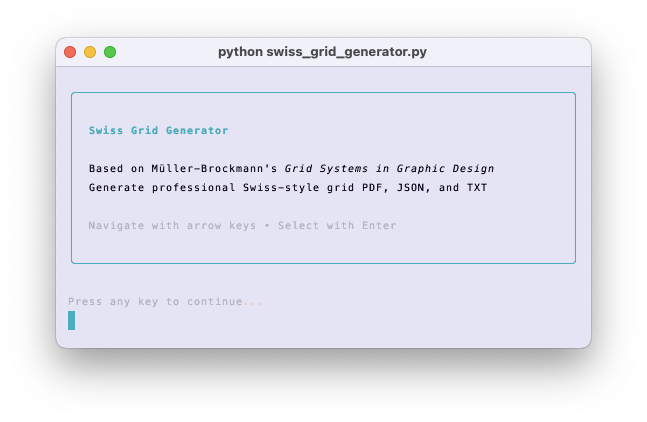
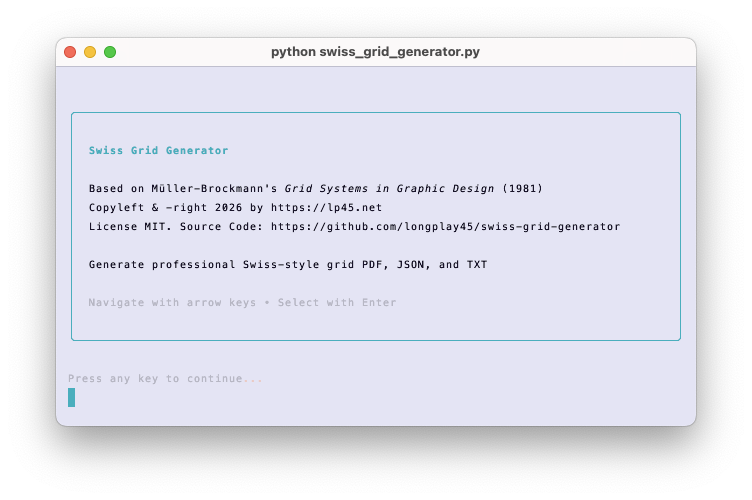
Add License and Source Code Info to the Cli and Webapp. Updated swiss-grid-generator-cli-screenshot.png.

diff --git a/swiss-grid-webapp/app/page.tsx b/swiss-grid-webapp/app/page.tsx
@@ -183,7 +183,7 @@ export default function Home() {
         <div className="space-y-2">
           <h1 className="text-2xl font-bold tracking-tight">Swiss Grid Generator</h1>
           <p className="text-sm text-gray-600">
-            Based on Müller-Brockmann's <em>Grid Systems in Graphic Design</em> (1981). Copyleft & -right 2026 by <a href="https://lp45.net">lp45.net</a>
+            Based on Müller-Brockmann's <em>Grid Systems in Graphic Design</em> (1981). Copyleft & -right 2026 by <a href="https://lp45.net">lp45.net</a>. License MIT. <a href="https://github.com/longplay45/swiss-grid-generator">Source Code</a>
           </p>
         </div>
 

diff --git a/cli/swiss_grid_generator.py b/cli/swiss_grid_generator.py
@@ -1157,7 +1157,9 @@ def interactive_mode() -> Tuple[str, int, str, int, int]:
     console.print(
         Panel(
             "[bold cyan]Swiss Grid Generator[/bold cyan]\n\n"
-            "Based on Müller-Brockmann's [italic]Grid Systems in Graphic Design[/italic]\n"
+            "Based on Müller-Brockmann's [italic]Grid Systems in Graphic Design[/italic] (1981)\n"
+            "Copyleft & -right 2026 by https://lp45.net\n"
+            "License MIT. Source Code: https://github.com/longplay45/swiss-grid-generator\n\n"
             "Generate professional Swiss-style grid PDF, JSON, and TXT\n\n"
             "[dim]Navigate with arrow keys • Select with Enter[/dim]",
             border_style="cyan",
